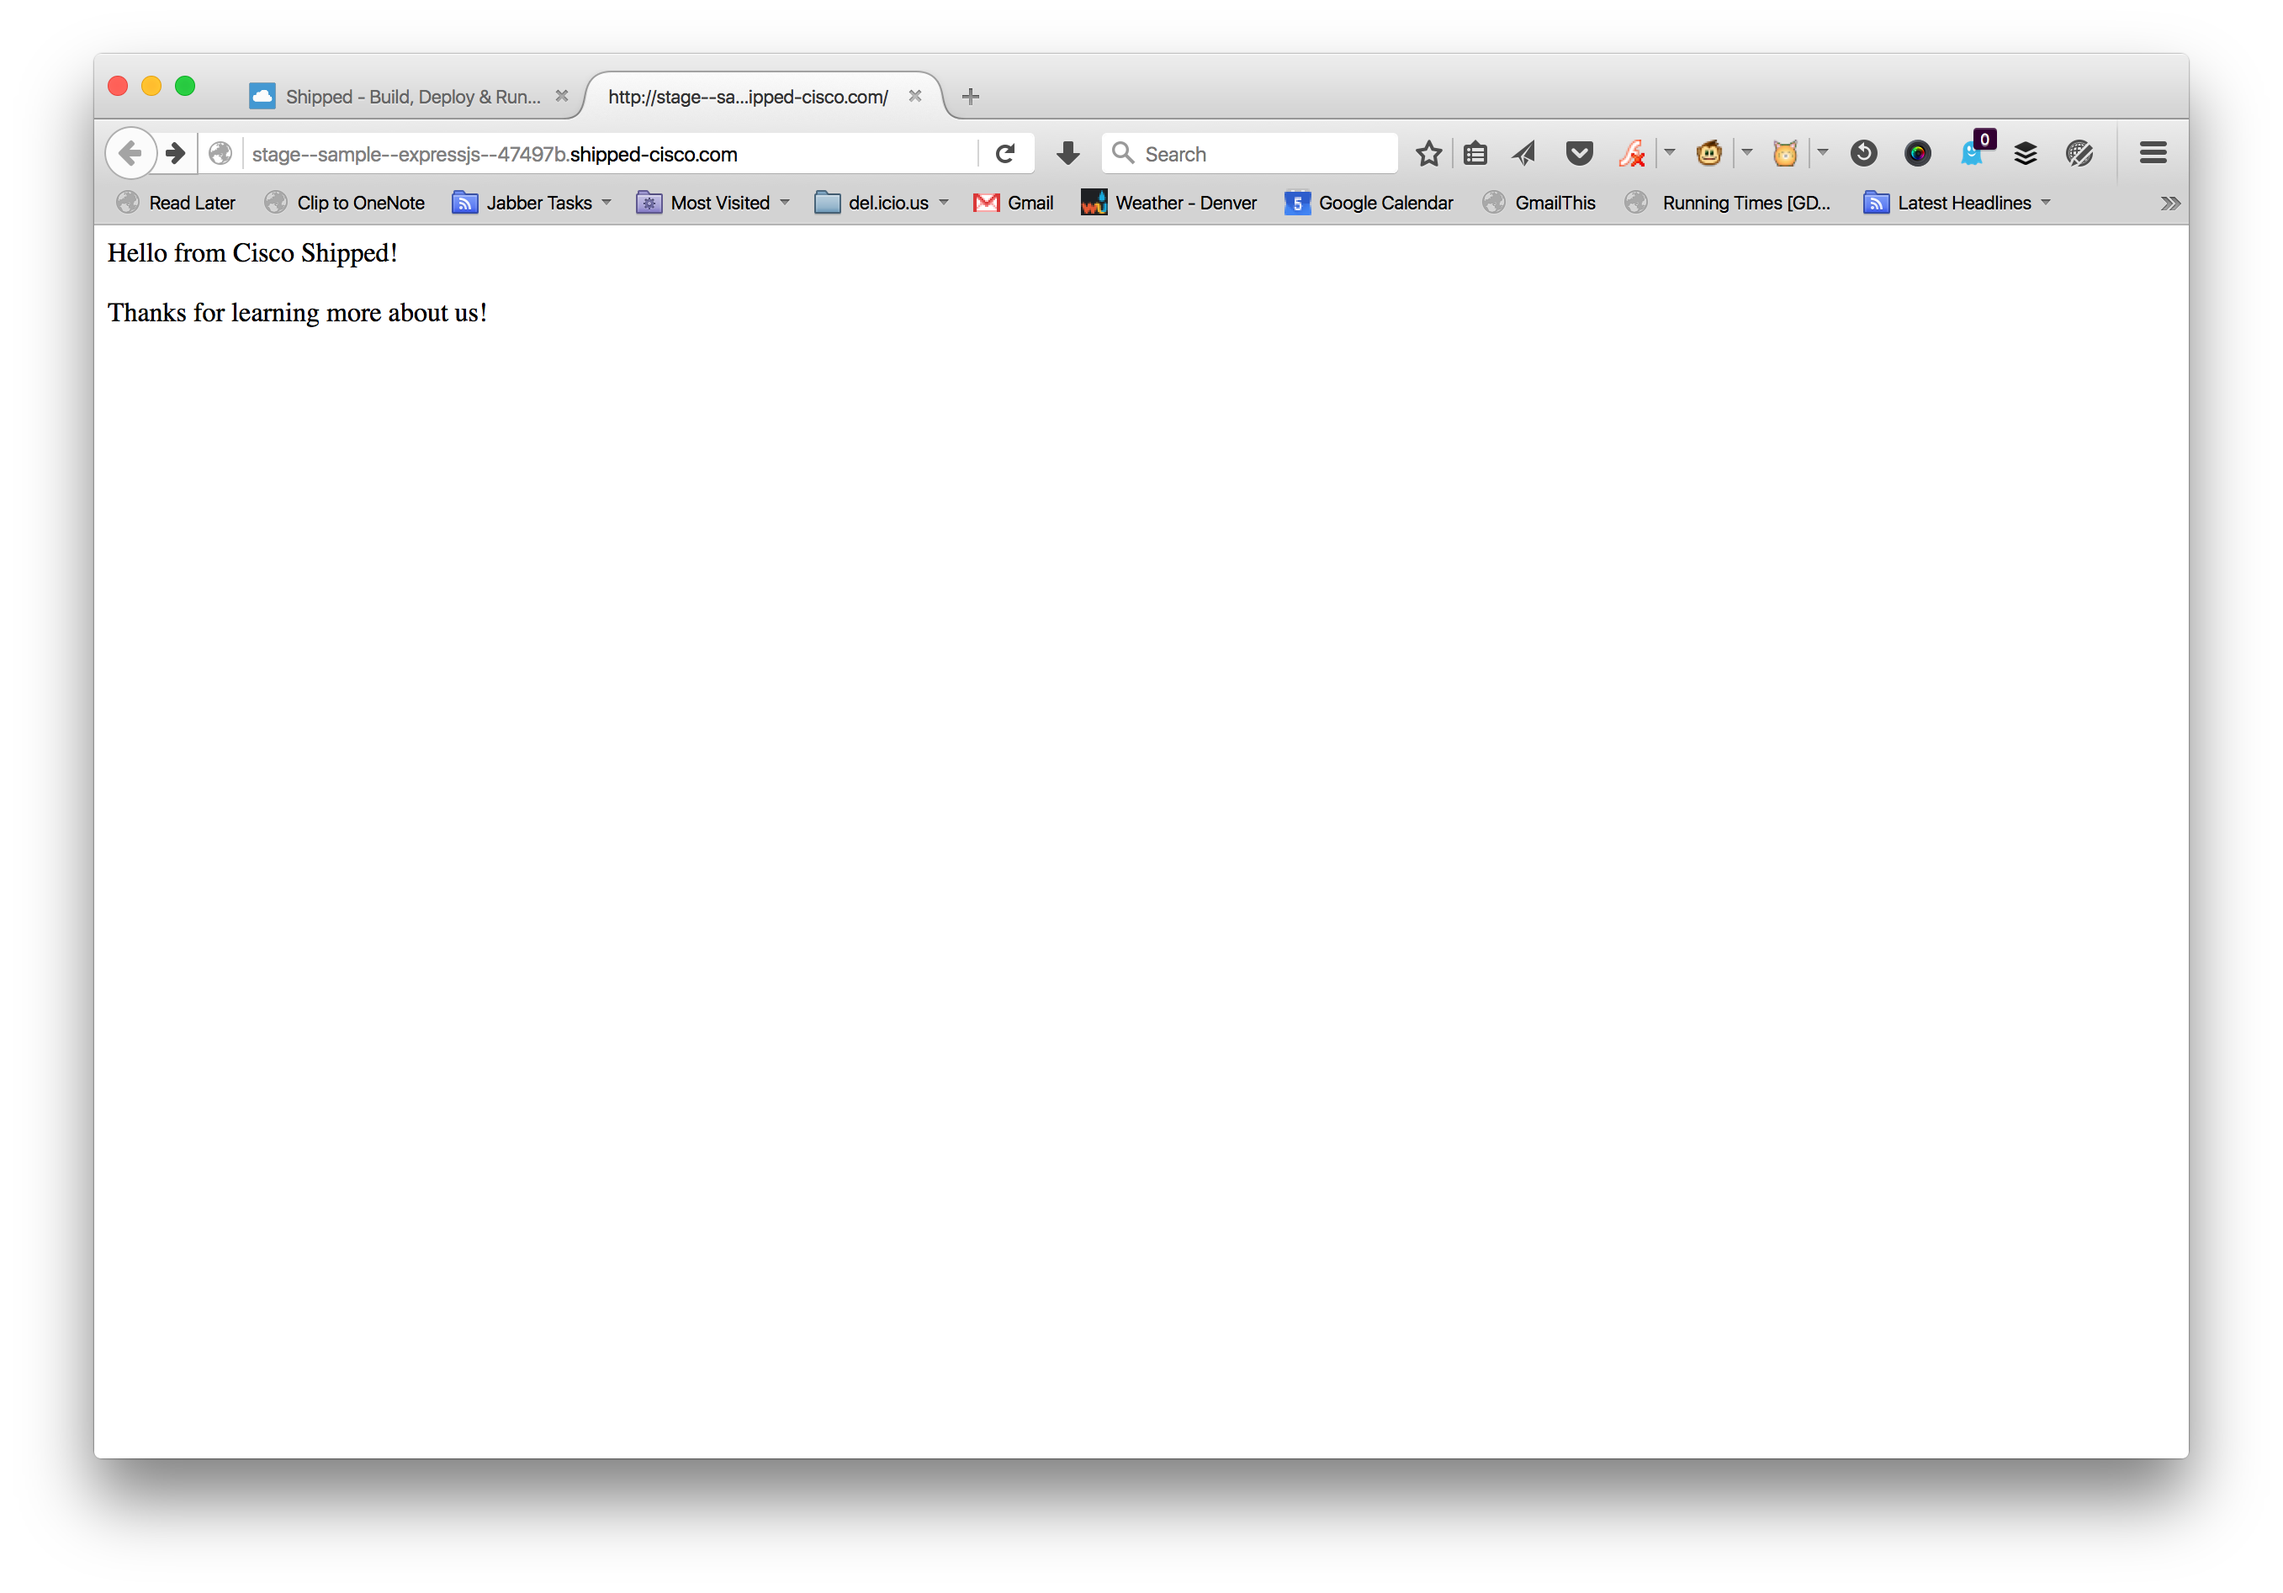
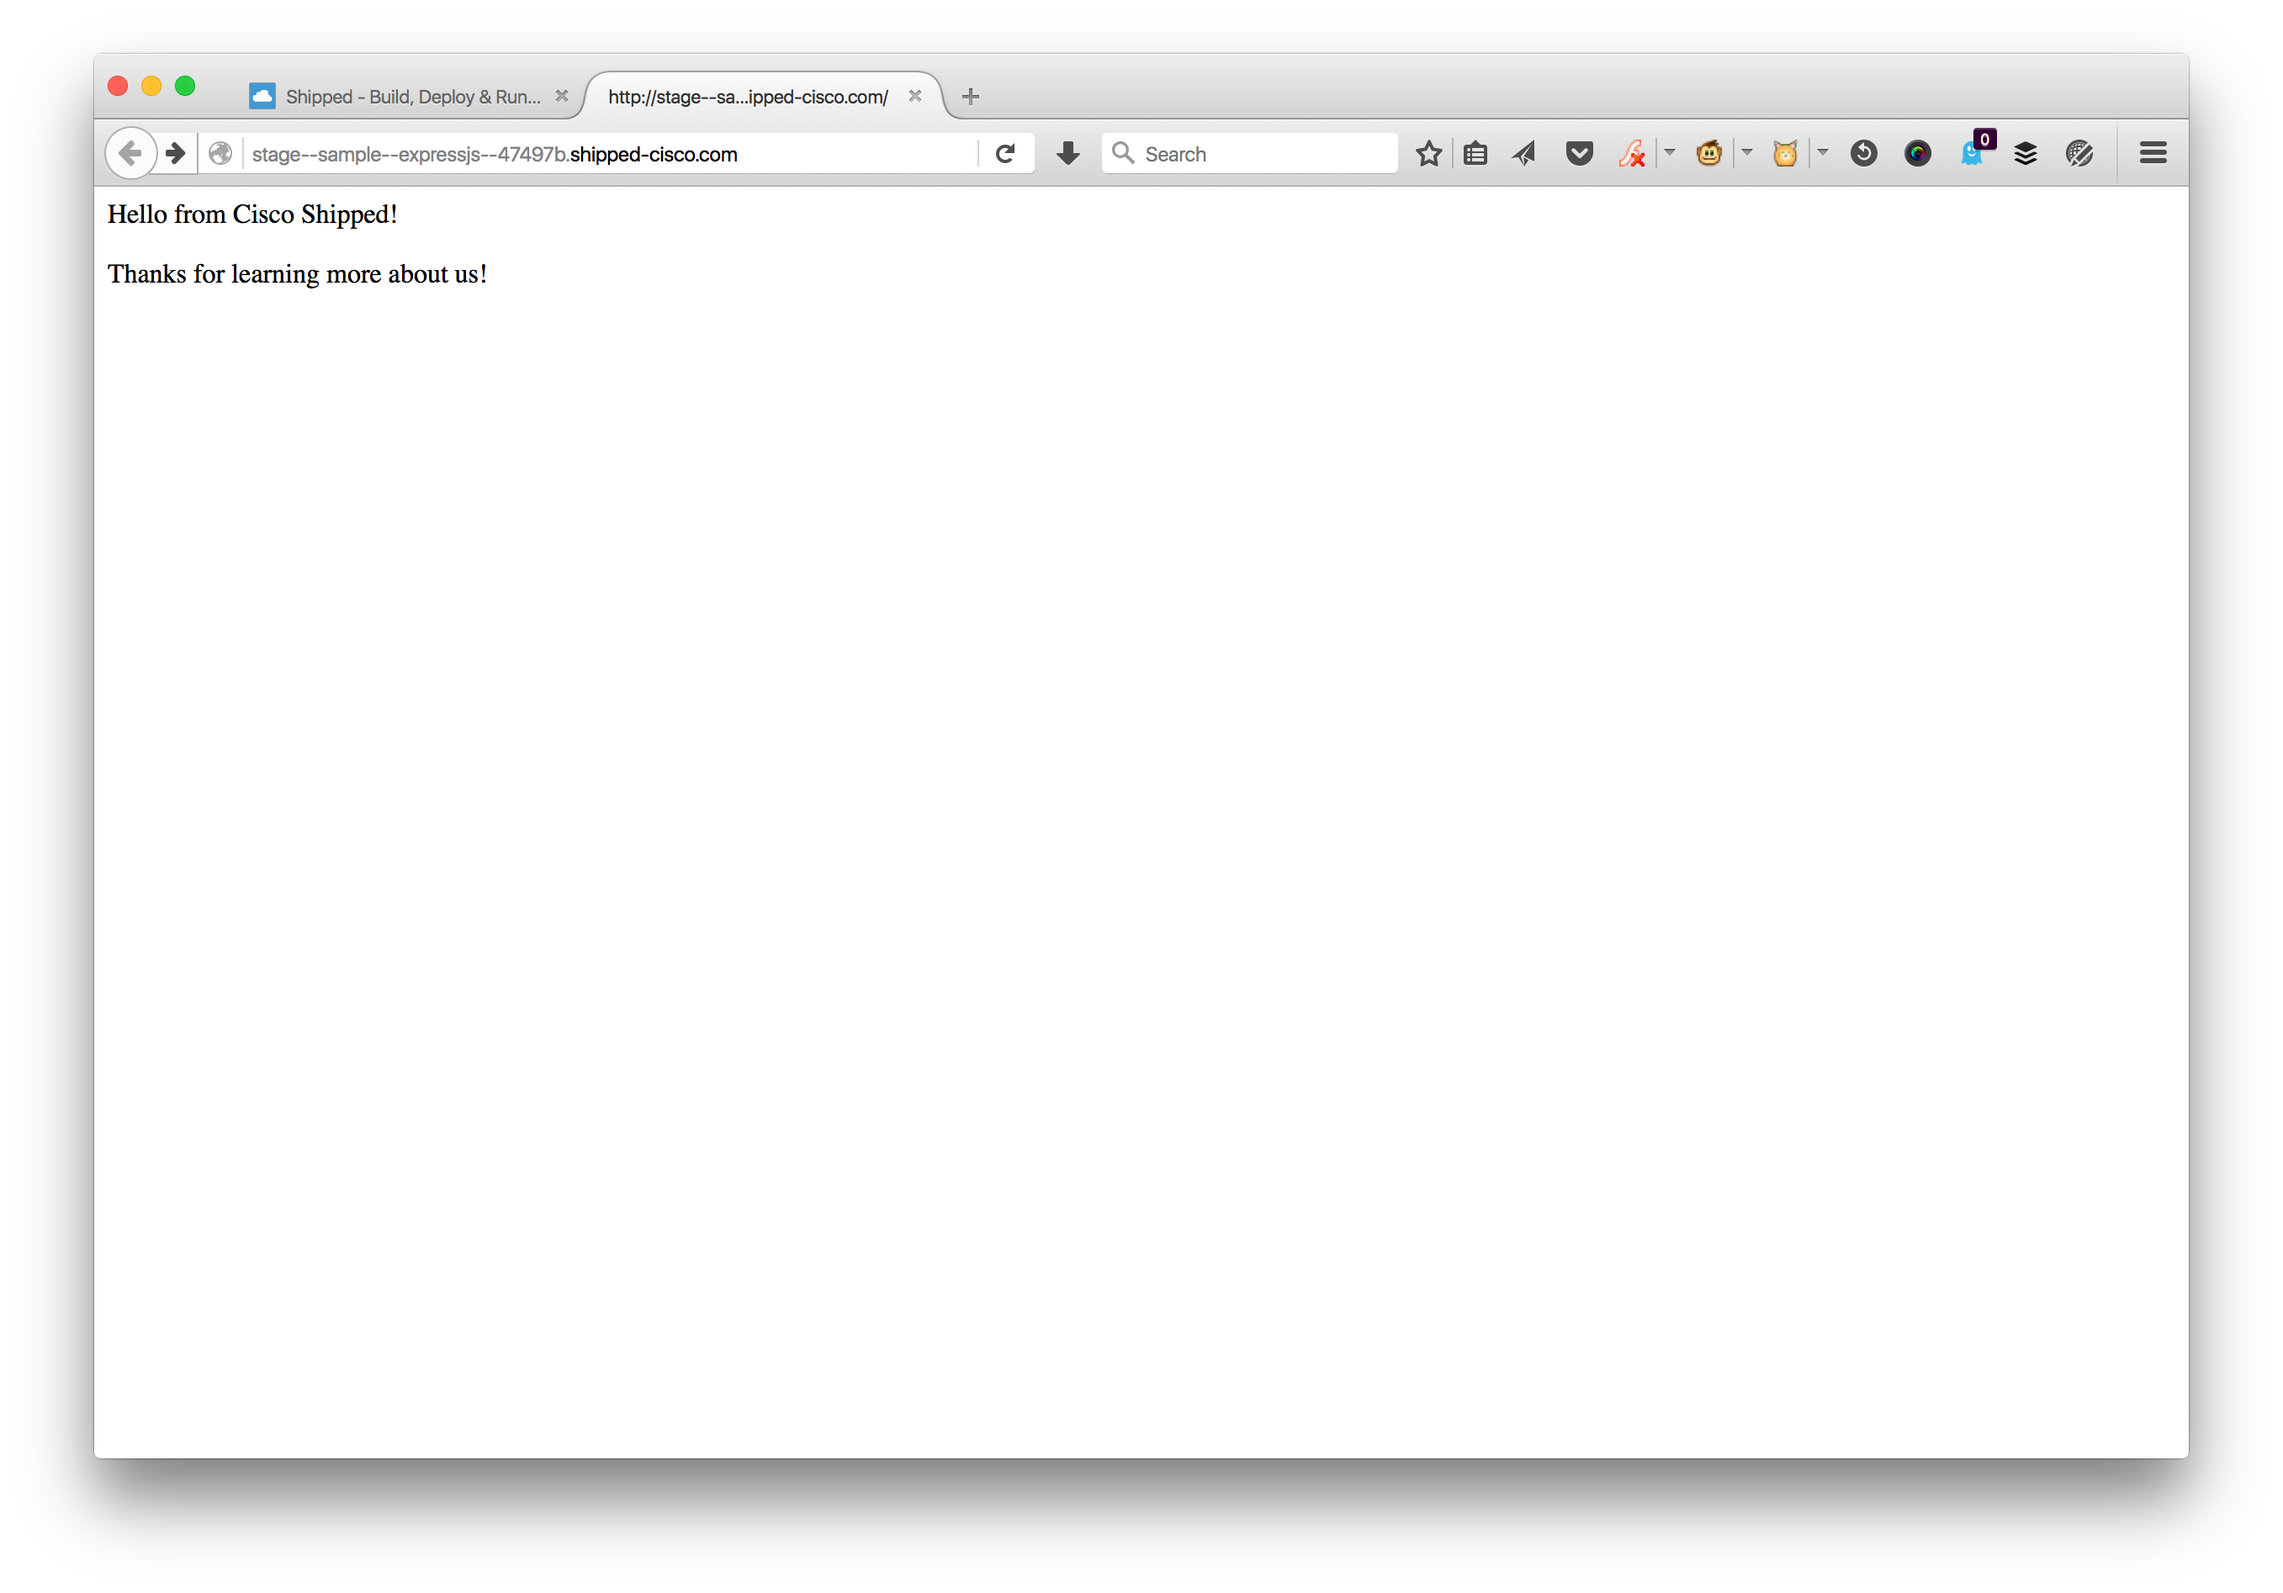
Simple walkthrough of Shipped

Changed region(s): [[0.031, 0.0935, 0.9595, 0.2181]]

diff --git a/README.md b/README.md
@@ -1,0 +1,80 @@
+# CiscoShipped.io Walkthrough
+
+1. Start by navigating to https://ciscoshipped.io/
+
+2. Log into Cisco Shipped
+   ![Login Screen](artifacts/01.login.png)
+
+3. Authorize Cisco Shipped to work with your [GitHub](https://github.com/) account
+   ![GitHub Authorization](artifacts/02.authorize.png)
+
+4. Now you can create your first app with Shipped. Compose your application by giving it a name (we recommend `sample`), and selecting a language to work with (this example uses `ExpressJS` and a repository named `expressjs`).
+   ![Compose Application](artifacts/03.compose.png)
+
+5. After you click "Build Project" you should be prompted to bootstrap your local environment. The first command downloads and installs the Shipped CLI. If you already have that installed, then copy the second command and prepare to paste it into your `Terminal` or command-line window.
+   ![Bootstrap Command](artifacts/04.bootstrap command.png)
+
+6. When you paste the command into your `Terminal`, please add the argument `--fast` for the purposes of this walkthrough and press your `<Enter>` key.
+   ![Bootstrap Execute](artifacts/05.bootstrap execute.png)
+   
+7. To kick off your first build, change directory into the local code checkout, then commit and push your changes. On OS X and Linux, you can use this command:
+
+   ```
+   cd sample/expressjs && git push origin master
+   ```
+   
+8. After your code is committed, it should automatically start a build.
+   ![Build started](artifacts/07.build started.png)
+   
+9. You should now switch the the `Deploy` tab and create a new environment to deploy your application into.
+   ![Create environment](artifacts/08.create environment.png)
+   
+10. This walkthrough expects the environment to be named `stage`.
+   ![Name environment](artifacts/09.name environment.png)
+     
+11. Once your build has completed successfully, you can deploy it to your environment.
+    ![Deploy your build](artifacts/10.deploy build.png)
+
+12. You can enable automatic deployments to an environment by in the `Settings` page.
+    ![Enable automatic deployment](artifacts/11.auto deploy.png)
+    
+13. To find the URI for your deployed build, you'll need to execute this command in your `Terminal`:
+
+    ```
+    shipped release getall %sample %stage
+    EnvName  ProjectName  ServiceName  Status   ErrorMsg  DeployedURL
+    -------  -----------  -----------  ------   --------  -----------
+    stage    sample       expressjs    Success            http://stage--sample--expressjs--47497b.shipped-cisco.com
+
+    ```
+    *Note: this command will fail if you've used names different than the ones recommended above.*
+    
+    ![Discover URI](artifacts/12.get deployed uri.png)
+    
+14. Your application is [live](http://stage--sample--expressjs--47497b.shipped-cisco.com/)!
+    ![See your application](artifacts/13.hello from shipped.png)
+    
+15. Now you can update your application in your favorite editor.
+    In this example we've added this text to the end of the string on the 5th line in the `index.js` file:
+ 
+    ```
+    <p>Thanks for learning more about us!</p>
+    ```
+    
+    ![Update application text](artifacts/14.update app text.png)
+    
+16. Now you can commit and push your changes with the commands:
+
+    ```
+    git commit -a
+    git push origin master
+    ```
+    
+    ![Commit and push changes](artifacts/15.commit and push changes.png)
+    
+17. If you have automatic deployments enabled, then your changes will be automatically staged and run after the build is successful.
+
+    ![Automatic deployment](artifacts/17.automatic deployment.png)
+    
+18. And you can reload your application to see the changes you've made...
+    ![Reload app to see changes](artifacts/18.reload app to see changes.png)
